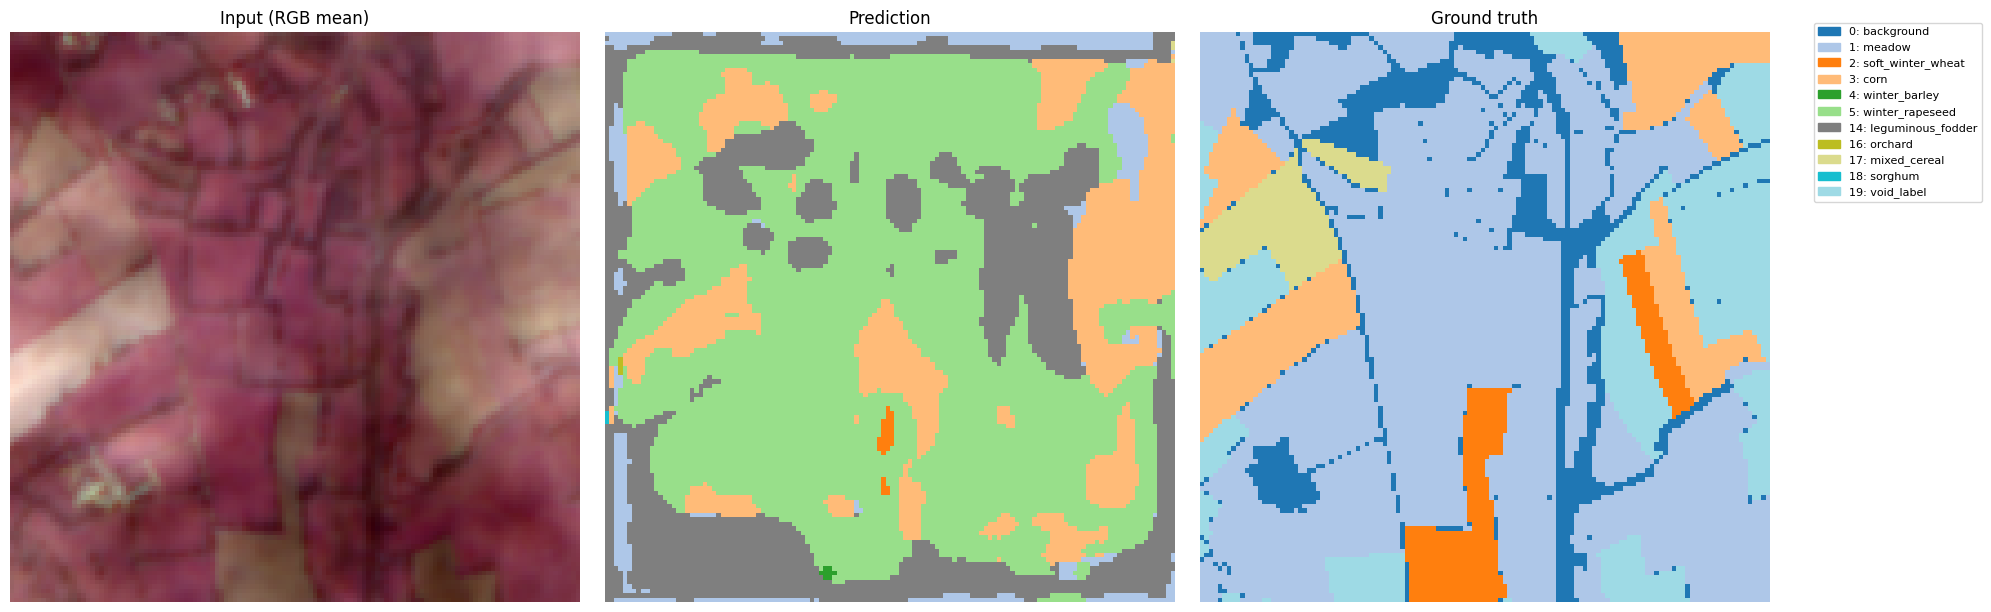
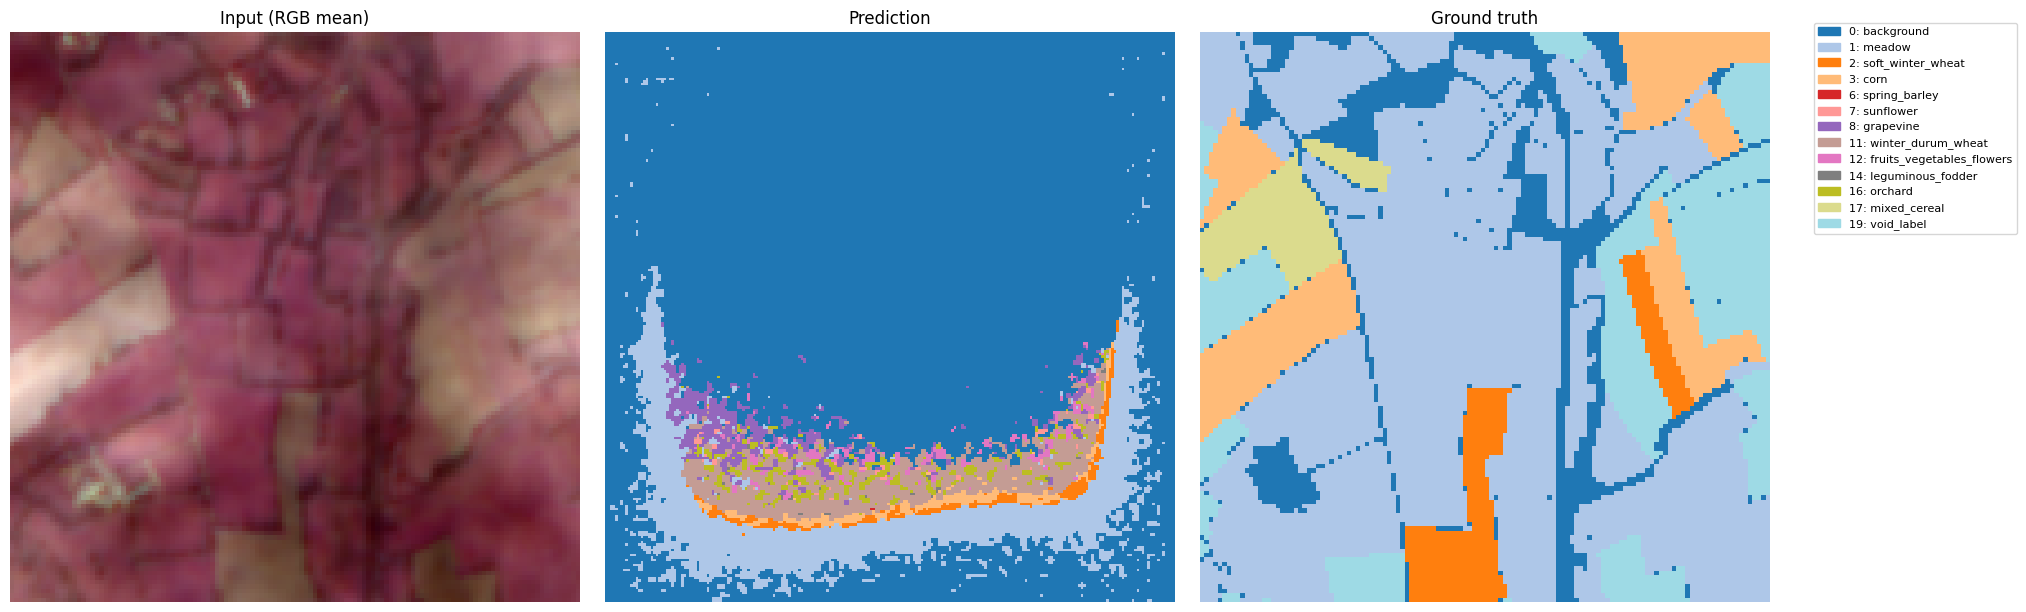
upsampling for prediction visualization for dpt and segformer

diff --git a/pastis.py b/pastis.py
@@ -1,14 +1,54 @@
 import lightning as L
 from torchgeo.trainers import SemanticSegmentationTask
 from lightning.pytorch.loggers import WandbLogger
+from lightning.pytorch.callbacks import Callback
 from torchgeo.datamodules import PASTISDataModule
 import torch
+import torch.nn.functional as F
+from kornia.enhance import normalize
 
-epochs=16
+
+class UpsampleTo224(Callback):
+    def _resize(self, batch):
+        img = batch['image']
+        if img.dim() == 5:
+            # (B, C, T, H, W) -> flatten T into C, interpolate, unflatten
+            B, C, T, H, W = img.shape
+            img = img.permute(0, 2, 1, 3, 4).reshape(B, C * T, H, W)
+            img = F.interpolate(img, size=(224, 224), mode='bilinear', align_corners=False)
+            img = img.reshape(B, C, T, 224, 224).permute(0, 2, 1, 3, 4)
+        else:
+            img = F.interpolate(img, size=(224, 224), mode='bilinear', align_corners=False)
+        batch['image'] = img
+        mask = batch['mask']
+        if mask.dim() == 3:
+            mask = mask.unsqueeze(1)
+        batch['mask'] = F.interpolate(mask.float(), size=(224, 224), mode='nearest').long().squeeze(1)
+
+    def on_train_batch_start(self, trainer, pl_module, batch, batch_idx):
+        self._resize(batch)
+
+    def on_validation_batch_start(self, trainer, pl_module, batch, batch_idx):
+        self._resize(batch)
+
+    def on_test_batch_start(self, trainer, pl_module, batch, batch_idx):
+        self._resize(batch)
+
+epochs=2
 
 # PASTISDataModule pads all sequences to padding_length (default 61) timesteps.
 # The model receives (B, T*C, H, W) = (B, 61*10, H, W) = (B, 610, H, W).
 
+models_backbones={
+    "unet": "resnet50",
+    "deeplabv3+": "resnet50",
+    "dpt": "tu-vit_base_patch16_224",
+    "segformer": "tu-mix_transformer_b2",
+}
+model_index=2
+model_name=list(models_backbones.keys())[model_index]
+backbone=models_backbones[model_name]
+print(f"{model_name=} || {backbone=}")
 datamodule = PASTISDataModule(
     root='data',
     batch_size=64,
@@ -18,8 +58,8 @@ datamodule = PASTISDataModule(
 )
 
 task = SemanticSegmentationTask(
-    model='unet',
-    backbone='resnet50',
+    model=model_name,
+    backbone=backbone,
     weights=None,
     in_channels=610,
     task='multiclass',
@@ -37,10 +77,11 @@ task = SemanticSegmentationTask(
     freeze_decoder=False,
 )
 
-wandb_logger = WandbLogger(project="pastis-test", log_model=False)
-trainer = L.Trainer(max_epochs=epochs, accelerator='gpu', devices=1, logger=wandb_logger)
+wandb_logger = WandbLogger(project="pastis-test", log_model=False, name=f"{model_name}_{backbone}")
+callbacks = [UpsampleTo224()] if model_name in ('dpt', 'segformer') else []
+trainer = L.Trainer(max_epochs=epochs, accelerator='gpu', devices=1, logger=wandb_logger, callbacks=callbacks)
 trainer.fit(task, datamodule=datamodule)
-
+trainer.test(task, datamodule=datamodule)
 
 import matplotlib.pyplot as plt
 import matplotlib.patches as mpatches
@@ -55,11 +96,17 @@ CLASSES = [
 ]
 CMAP = plt.get_cmap('tab20', 20)
 
-task.eval()
-
 def visualize(batch, filename):
     x_raw = batch['image'][0:1]
-    x = datamodule.aug(x_raw.to(task.device))
+    x = x_raw.to(task.device)
+    if model_name in ('dpt', 'segformer'):
+        if x.dim() == 5:
+            B, C, T, H, W = x.shape
+            x = x.permute(0, 2, 1, 3, 4).reshape(B, C * T, H, W)
+            x = F.interpolate(x, size=(224, 224), mode='bilinear', align_corners=False)
+        else:
+            x = F.interpolate(x, size=(224, 224), mode='bilinear', align_corners=False)
+    x = normalize(x, mean=datamodule.mean.to(task.device), std=datamodule.std.to(task.device))
     mask = batch['mask'][0].squeeze().numpy()
 
     with torch.no_grad():
@@ -80,6 +127,7 @@ def visualize(batch, filename):
     fig.legend(handles=patches, bbox_to_anchor=(1.01, 1), loc='upper left', fontsize=8)
     fig.tight_layout()
     fig.savefig(filename, bbox_inches='tight')
+    print(f"Saved prediction to {filename}")
     plt.close(fig)
 
 datamodule.setup('fit')